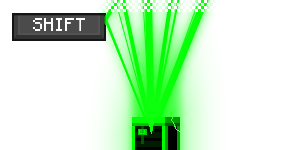
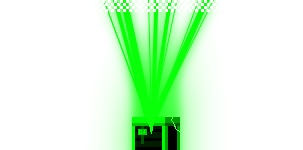
New previewer assets

Changed region(s): [[0.0297, 0.0, 0.7129, 0.7733], [0.505, 0.7467, 0.5347, 0.7733]]

diff --git a/src/MainWindow.xaml.cs b/src/MainWindow.xaml.cs
@@ -258,7 +258,7 @@ public sealed partial class MainWindow : Window
         );
 
         Previewer.Instance.InitializeButton(SettingsButton,
-            "ms-appx:///Assets/previews/theme.png"
+            "ms-appx:///Assets/previews/vrtx.settings.png"
         );
 
         Previewer.Instance.InitializeButton(BugButton,
